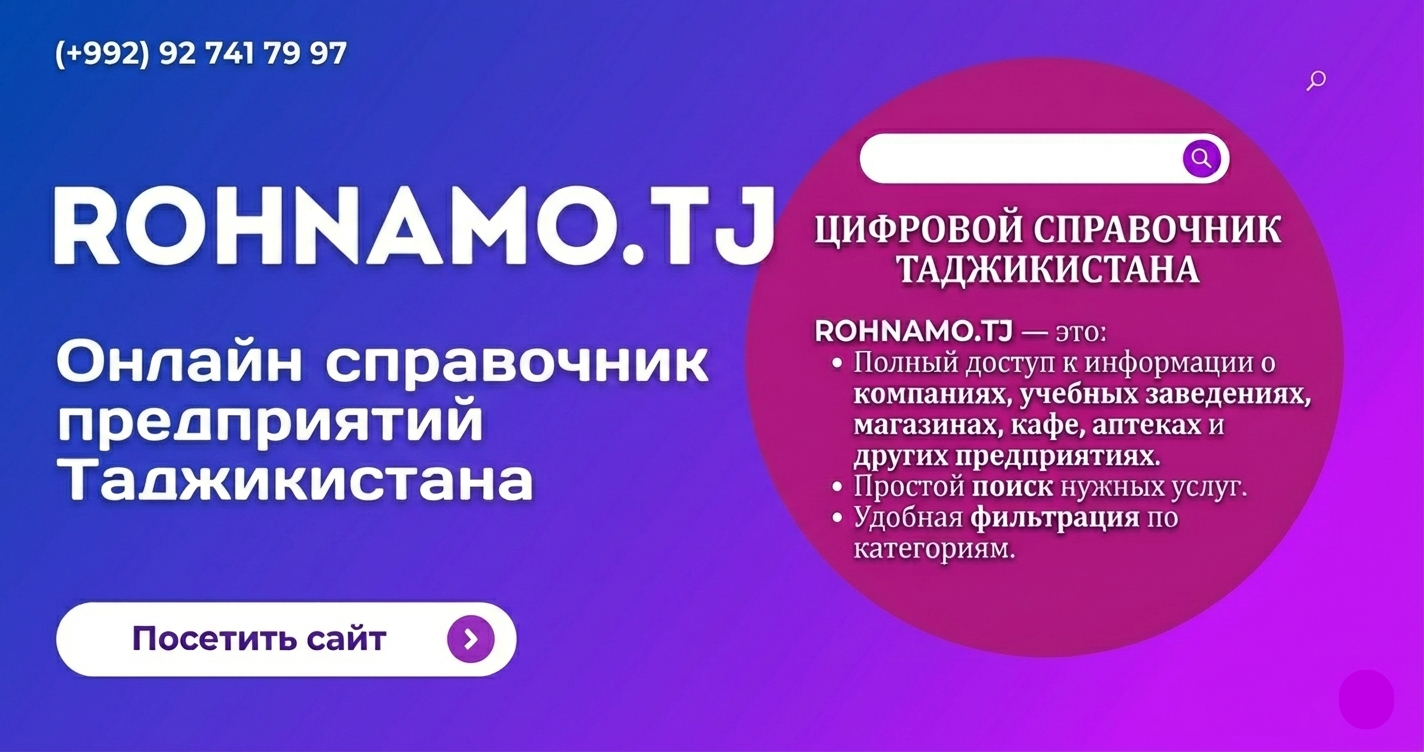
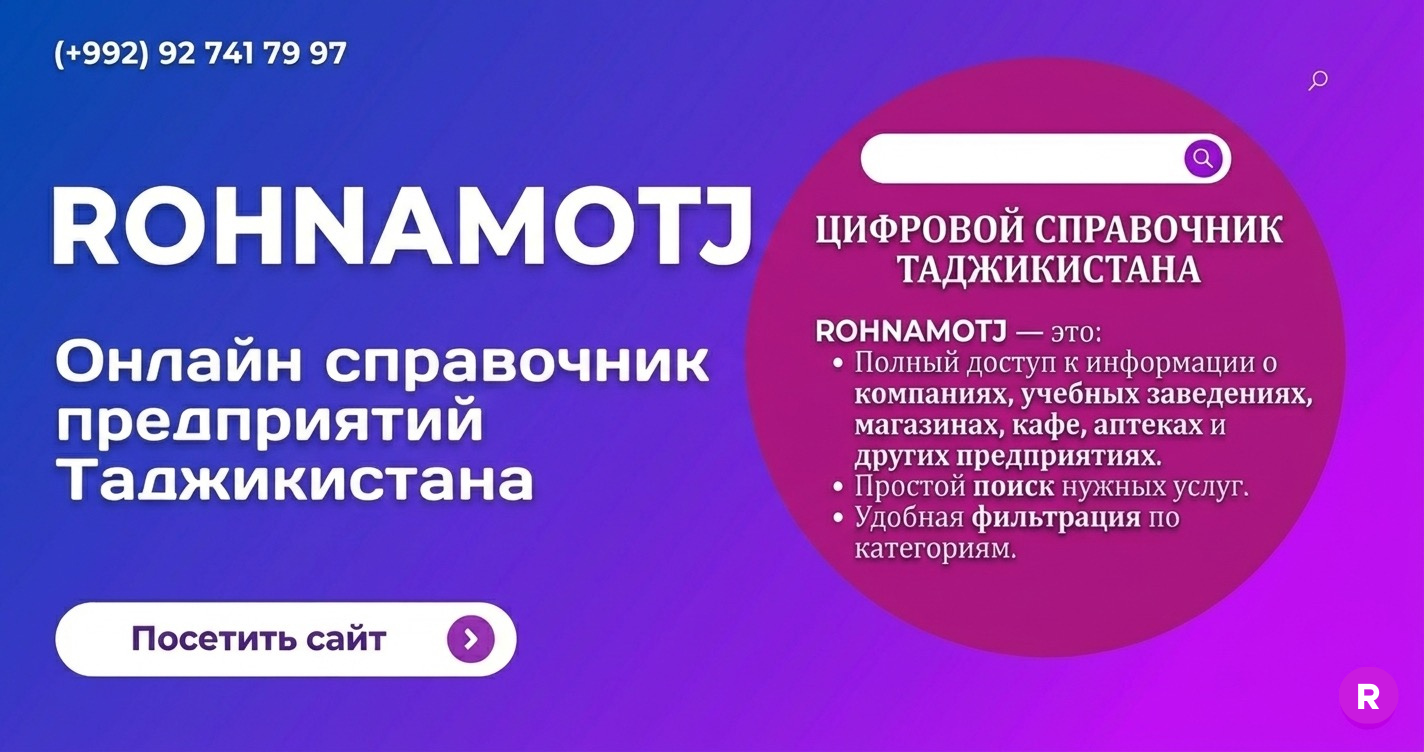
fixed the name

diff --git a/client/src/app/layout/footer/footer.html b/client/src/app/layout/footer/footer.html
@@ -5,7 +5,7 @@
             <mk-logo class="w-fit text-[40px] text-white"></mk-logo>
 
             <p class="text-(--body-bg-color) text-[17px] leading-6.75 font-normal m-0 max-sm:text-center">
-                ROHNAMO.TJ — это цифровой справочник организаций и заведений
+                ROHNAMO<span class="text-(--bg-color)">TJ</span> — это цифровой справочник организаций и заведений
                 Таджикистана. Сервис предоставляет пользователям доступ к информации
                 о компаниях, учебных заведениях, магазинах, кафе, аптеках и других
                 предприятиях. Платформа помогает легко находить нужные услуги и
@@ -15,7 +15,7 @@
             <ul class="flex flex-col gap-4 text-white list-none p-0 m-0 max-sm:items-center">
                 <li class="flex items-center gap-2.5">
                     <i class="pi pi-envelope"></i>
-                    <span>ROHNAMO.TJ</span>
+                    <span>ROHNAMO<span class="text-(--bg-color)">TJ</span></span>
                 </li>
                 <li class="flex items-center gap-2.5">
                     <i class="pi pi-phone"></i>

diff --git a/client/src/app/shared/components/logo/logo.html b/client/src/app/shared/components/logo/logo.html
@@ -1,3 +1,3 @@
 <div class="{{class()}} flex justify-center items-center tracking-[3px] font-bold h-full w-full">
-    <span>ROHNAMO</span><span [class]="childClass()">.TJ</span>
+    <span>ROHNAMO</span><span [class]="childClass()">TJ</span>
 </div>
